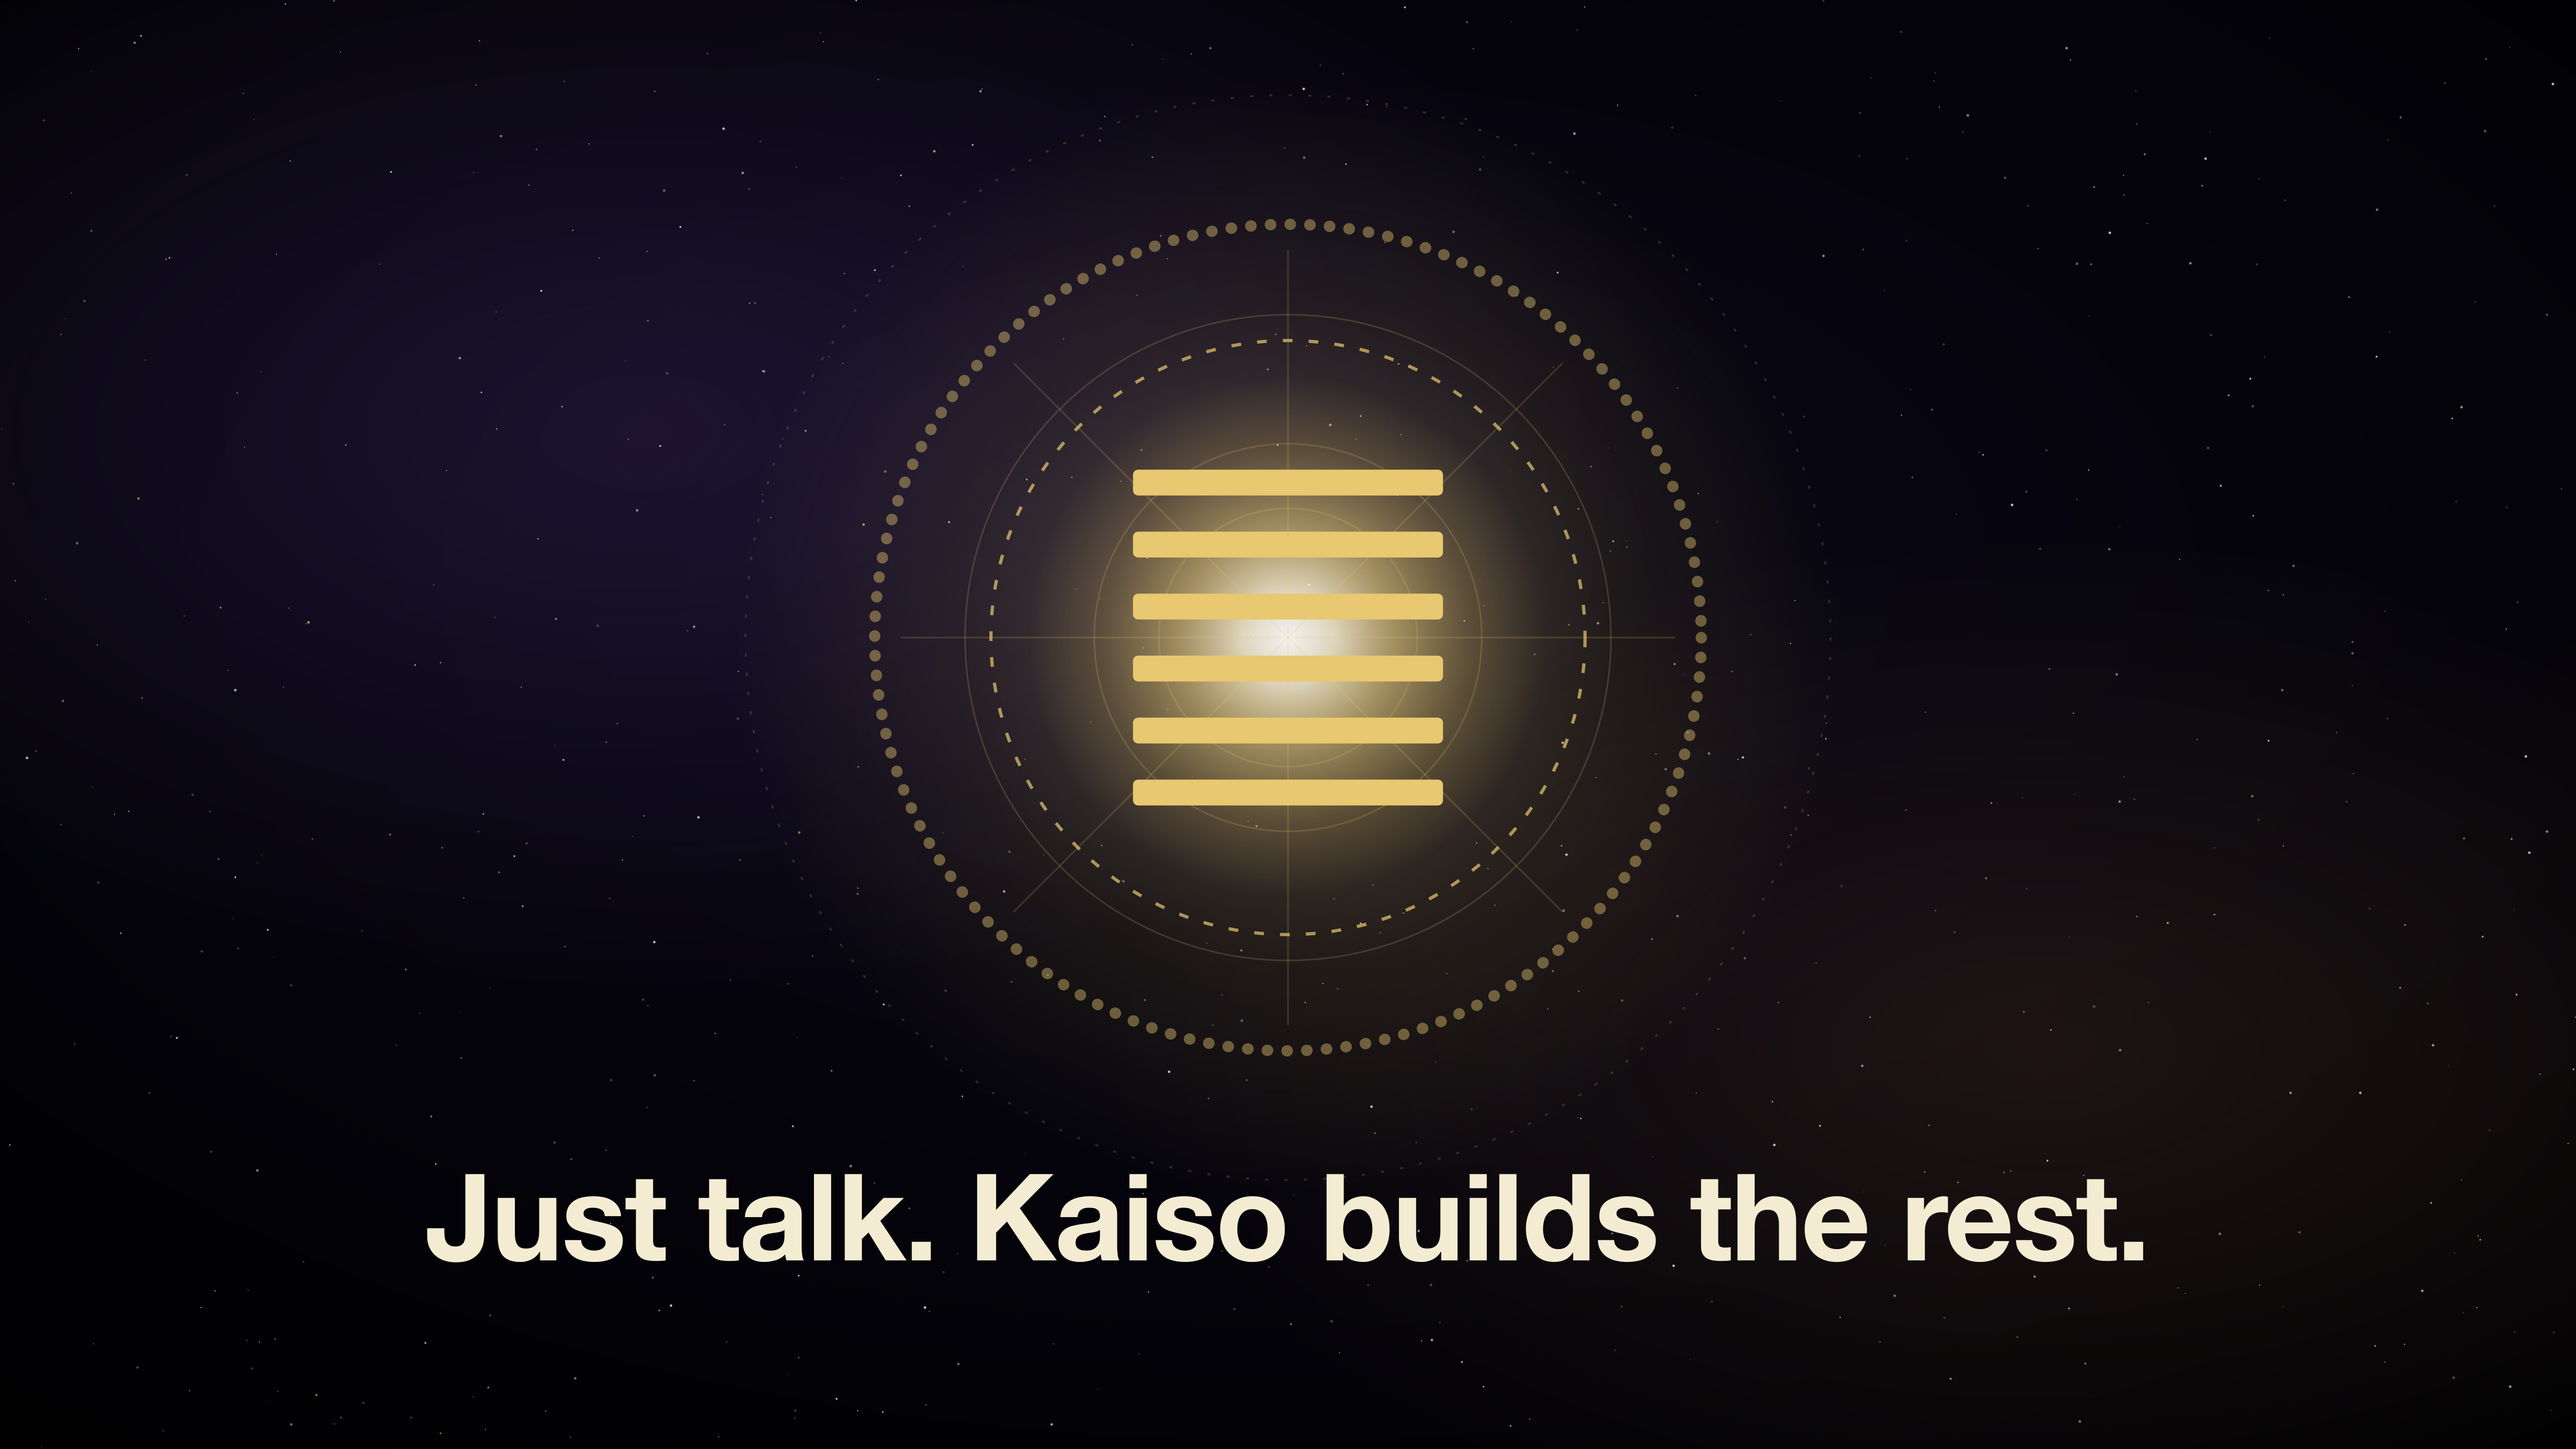
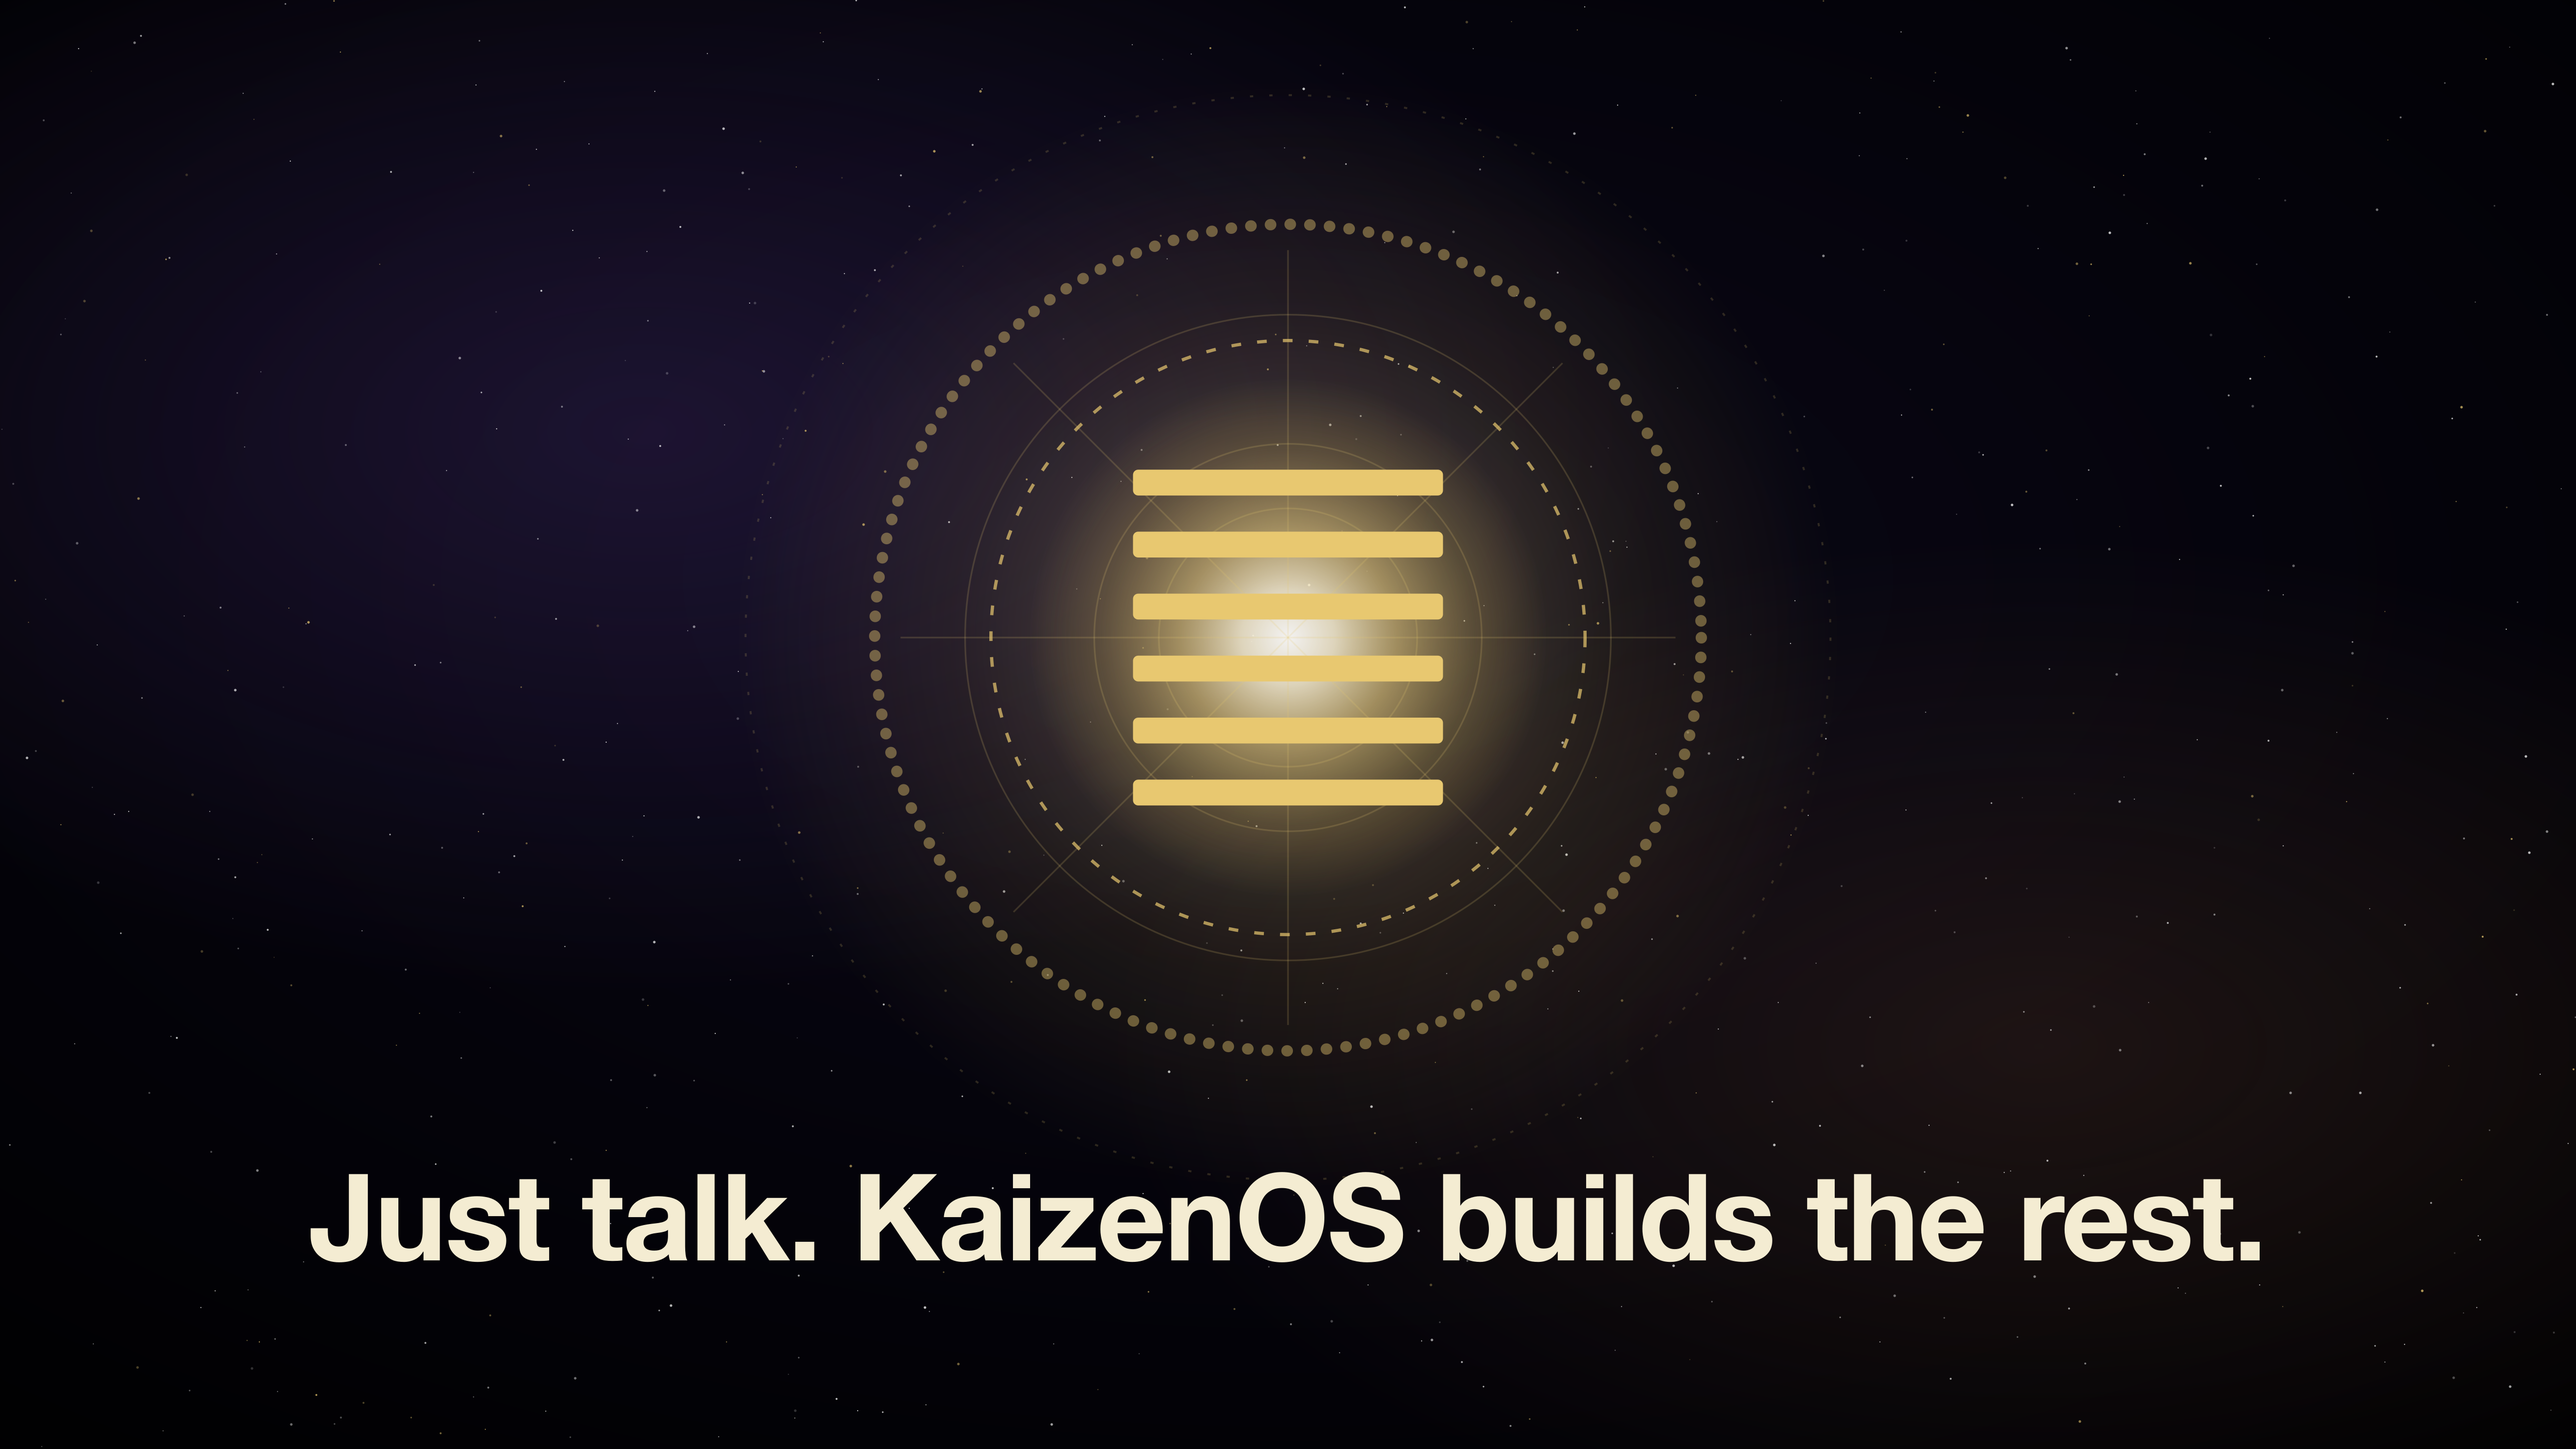
fix(store): creative phrase names KaizenOS, not Kaiso
KaizenOS is the product, Kaiso is the mentor inside it. A creative asset
is often the first and sometimes the only place someone meets the name,
and in search results it sits beside the app's own title -- so the phrase
has to reinforce that name rather than introduce a second one nobody has
met yet.

Checked the fit on all three canvases: the longer line still clears the
safe area on the 21:9, the 3:2 and the 16:9.

The App Store subtitle keeps "Talk. Kaiso builds the rest." It renders
directly beneath the app name, where Kaiso reads as what the app gives
you rather than as a competing brand. Noted in the README so the two do
not get "corrected" into each other later.

Changed region(s): [[0.1243, 0.8108, 0.8703, 0.8732]]

diff --git a/store/screenshots/make-frames.py b/store/screenshots/make-frames.py
@@ -172,7 +172,7 @@ WIDE = [
     ('creative-16x9',   5244, 2950, 'Either placement · 16:9',
      0.44, 0.205, 0.87),
 ]
-PHRASE = 'Just talk. Kaiso builds the rest.'
+PHRASE = 'Just talk. KaizenOS builds the rest.'
 
 def wide_frame(w, h, label, mcy, bezel, phrase_y, guides):
     n = int(150 * (w * h) / (1290 * 2796))

diff --git a/store/screenshots/README.md b/store/screenshots/README.md
@@ -222,3 +222,17 @@ Both placements take a 5–30 second looping video, and for a product whose
 whole proposition is *talk to it*, a still image is arguing with one hand
 tied. The same recording serves as the App Preview. Worth doing once the
 build is stable; the stills above are what ships in the meantime.
+
+## The phrase names the app, not the mentor
+
+**"Just talk. KaizenOS builds the rest."** KaizenOS is the product; Kaiso is
+the mentor inside it. A creative asset is often the first and sometimes the
+only place someone meets the name, and in search results it sits beside the
+app's own title — so the phrase has to reinforce *that* name, not introduce
+a second one nobody has met yet.
+
+The App Store subtitle in `../app-store-connect.md` still reads *"Talk.
+Kaiso builds the rest."* That one is deliberate and stays: it renders
+directly beneath the app name, where "Kaiso" reads as what the app gives
+you rather than as a competing brand. If it ever moves somewhere it stands
+alone, it needs the same change.
